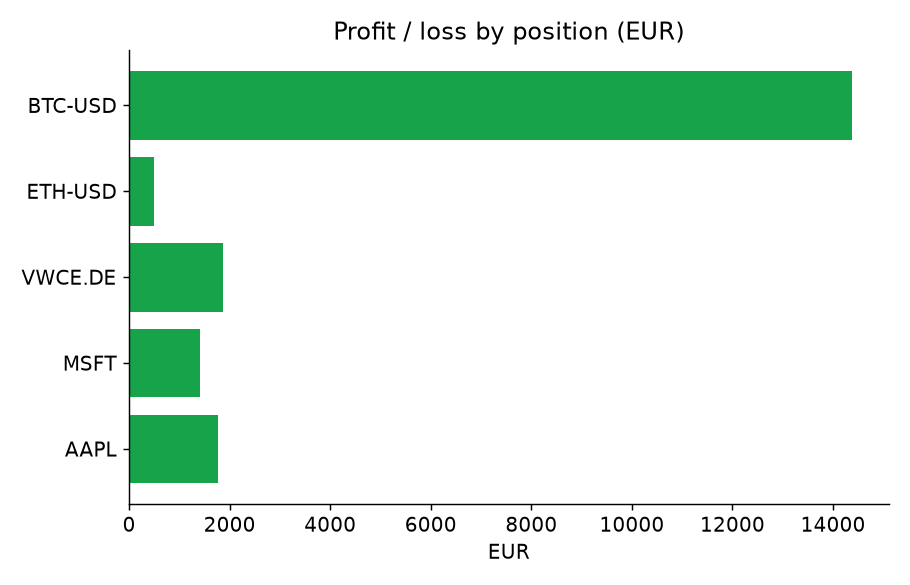
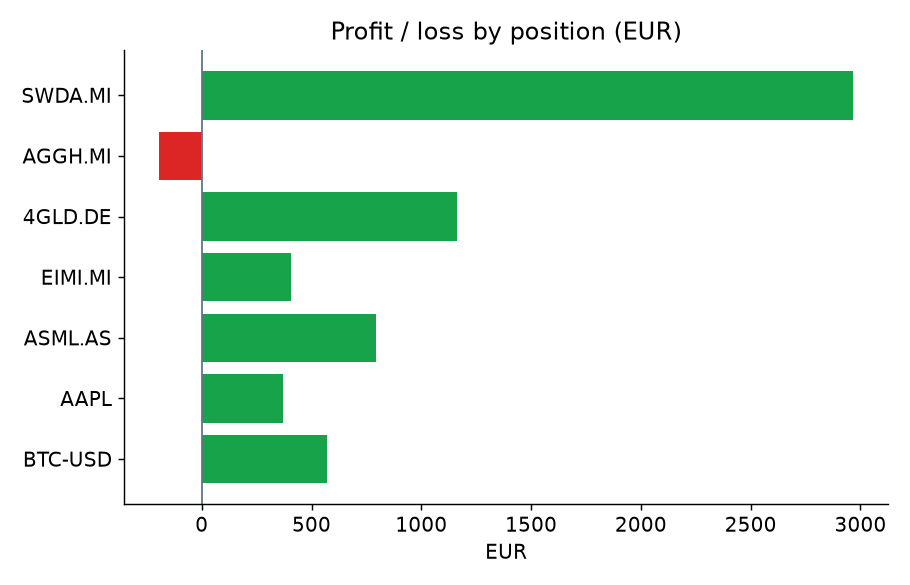
Use a diversified balanced demo portfolio (world, EM, bonds, gold)

diff --git a/portfolio_stats/providers/demo_provider.py b/portfolio_stats/providers/demo_provider.py
@@ -8,13 +8,17 @@ from .base import PortfolioProvider
 
 class DemoProvider(PortfolioProvider):
     def get_portfolio(self) -> Portfolio:
+        # A diversified, roughly balanced portfolio: global equity, emerging
+        # markets, bonds, gold, a couple of single stocks and a small crypto slice.
         return Portfolio(
             positions=[
-                Position("AAPL", "Apple Inc.", 12, 150, "stock"),
-                Position("MSFT", "Microsoft", 8, 280, "stock"),
-                Position("VWCE.DE", "Vanguard FTSE All-World", 25, 95, "etf"),
-                Position("BTC-USD", "Bitcoin", 0.4, 38000, "crypto"),
-                Position("ETH-USD", "Ethereum", 3, 2200, "crypto"),
+                Position("SWDA.MI", "iShares Core MSCI World", 155, 110, "etf"),
+                Position("EIMI.MI", "iShares Core MSCI EM IMI", 124, 45, "etf"),
+                Position("AGGH.MI", "iShares Core Global Aggregate Bond", 1875, 4.90, "bond"),
+                Position("4GLD.DE", "Xetra-Gold", 51, 95, "commodity"),
+                Position("ASML.AS", "ASML Holding", 2, 1200, "stock"),
+                Position("AAPL", "Apple Inc.", 8, 250, "stock"),
+                Position("BTC-USD", "Bitcoin", 0.03, 55000, "crypto"),
             ],
             cash=2500,
             currency="EUR",

diff --git a/README.md b/README.md
@@ -54,9 +54,12 @@ appears once at least two runs have been recorded):
 
 ```csv
 symbol,name,quantity,avg_open_price,asset_type
-AAPL,Apple Inc.,12,150,stock
-VWCE.DE,Vanguard FTSE All-World,25,95,etf
-BTC-USD,Bitcoin,0.4,38000,crypto
+SWDA.MI,iShares Core MSCI World,155,110,etf
+EIMI.MI,iShares Core MSCI EM IMI,124,45,etf
+AGGH.MI,iShares Core Global Aggregate Bond,1875,4.90,bond
+4GLD.DE,Xetra-Gold,51,95,commodity
+ASML.AS,ASML Holding,2,1200,stock
+BTC-USD,Bitcoin,0.03,55000,crypto
 CASH,Cash balance,2500,1,cash
 ```
 
